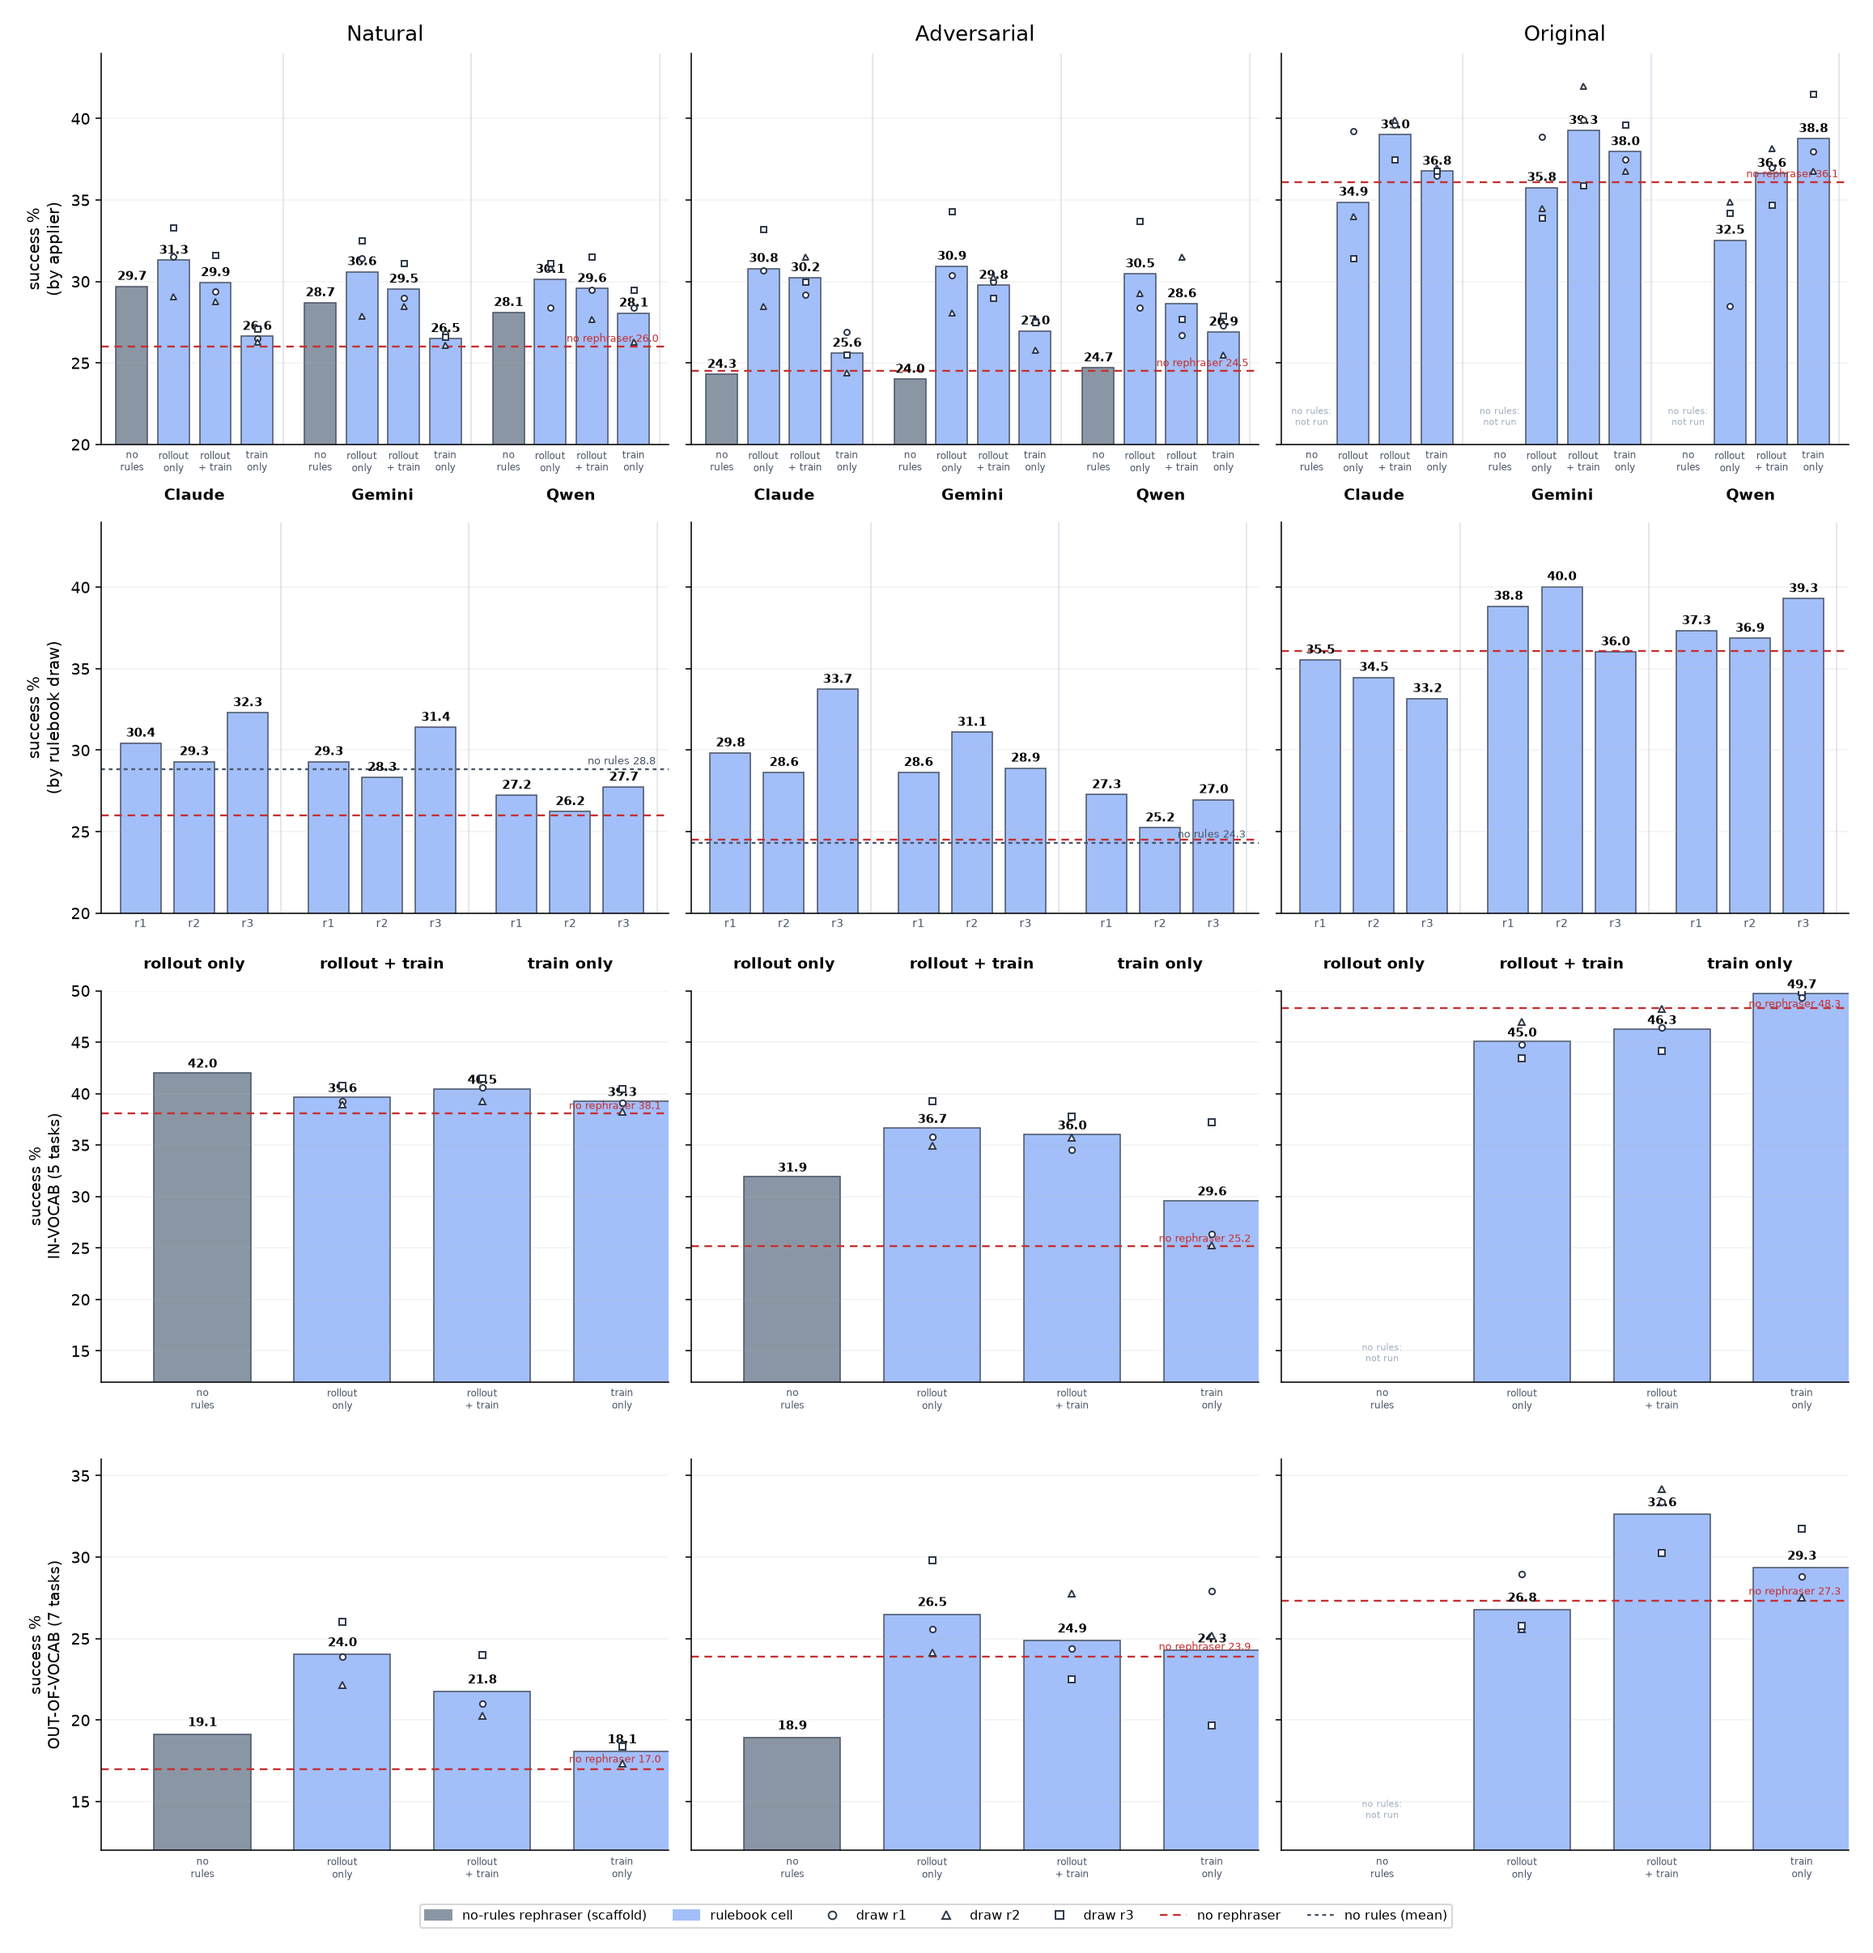
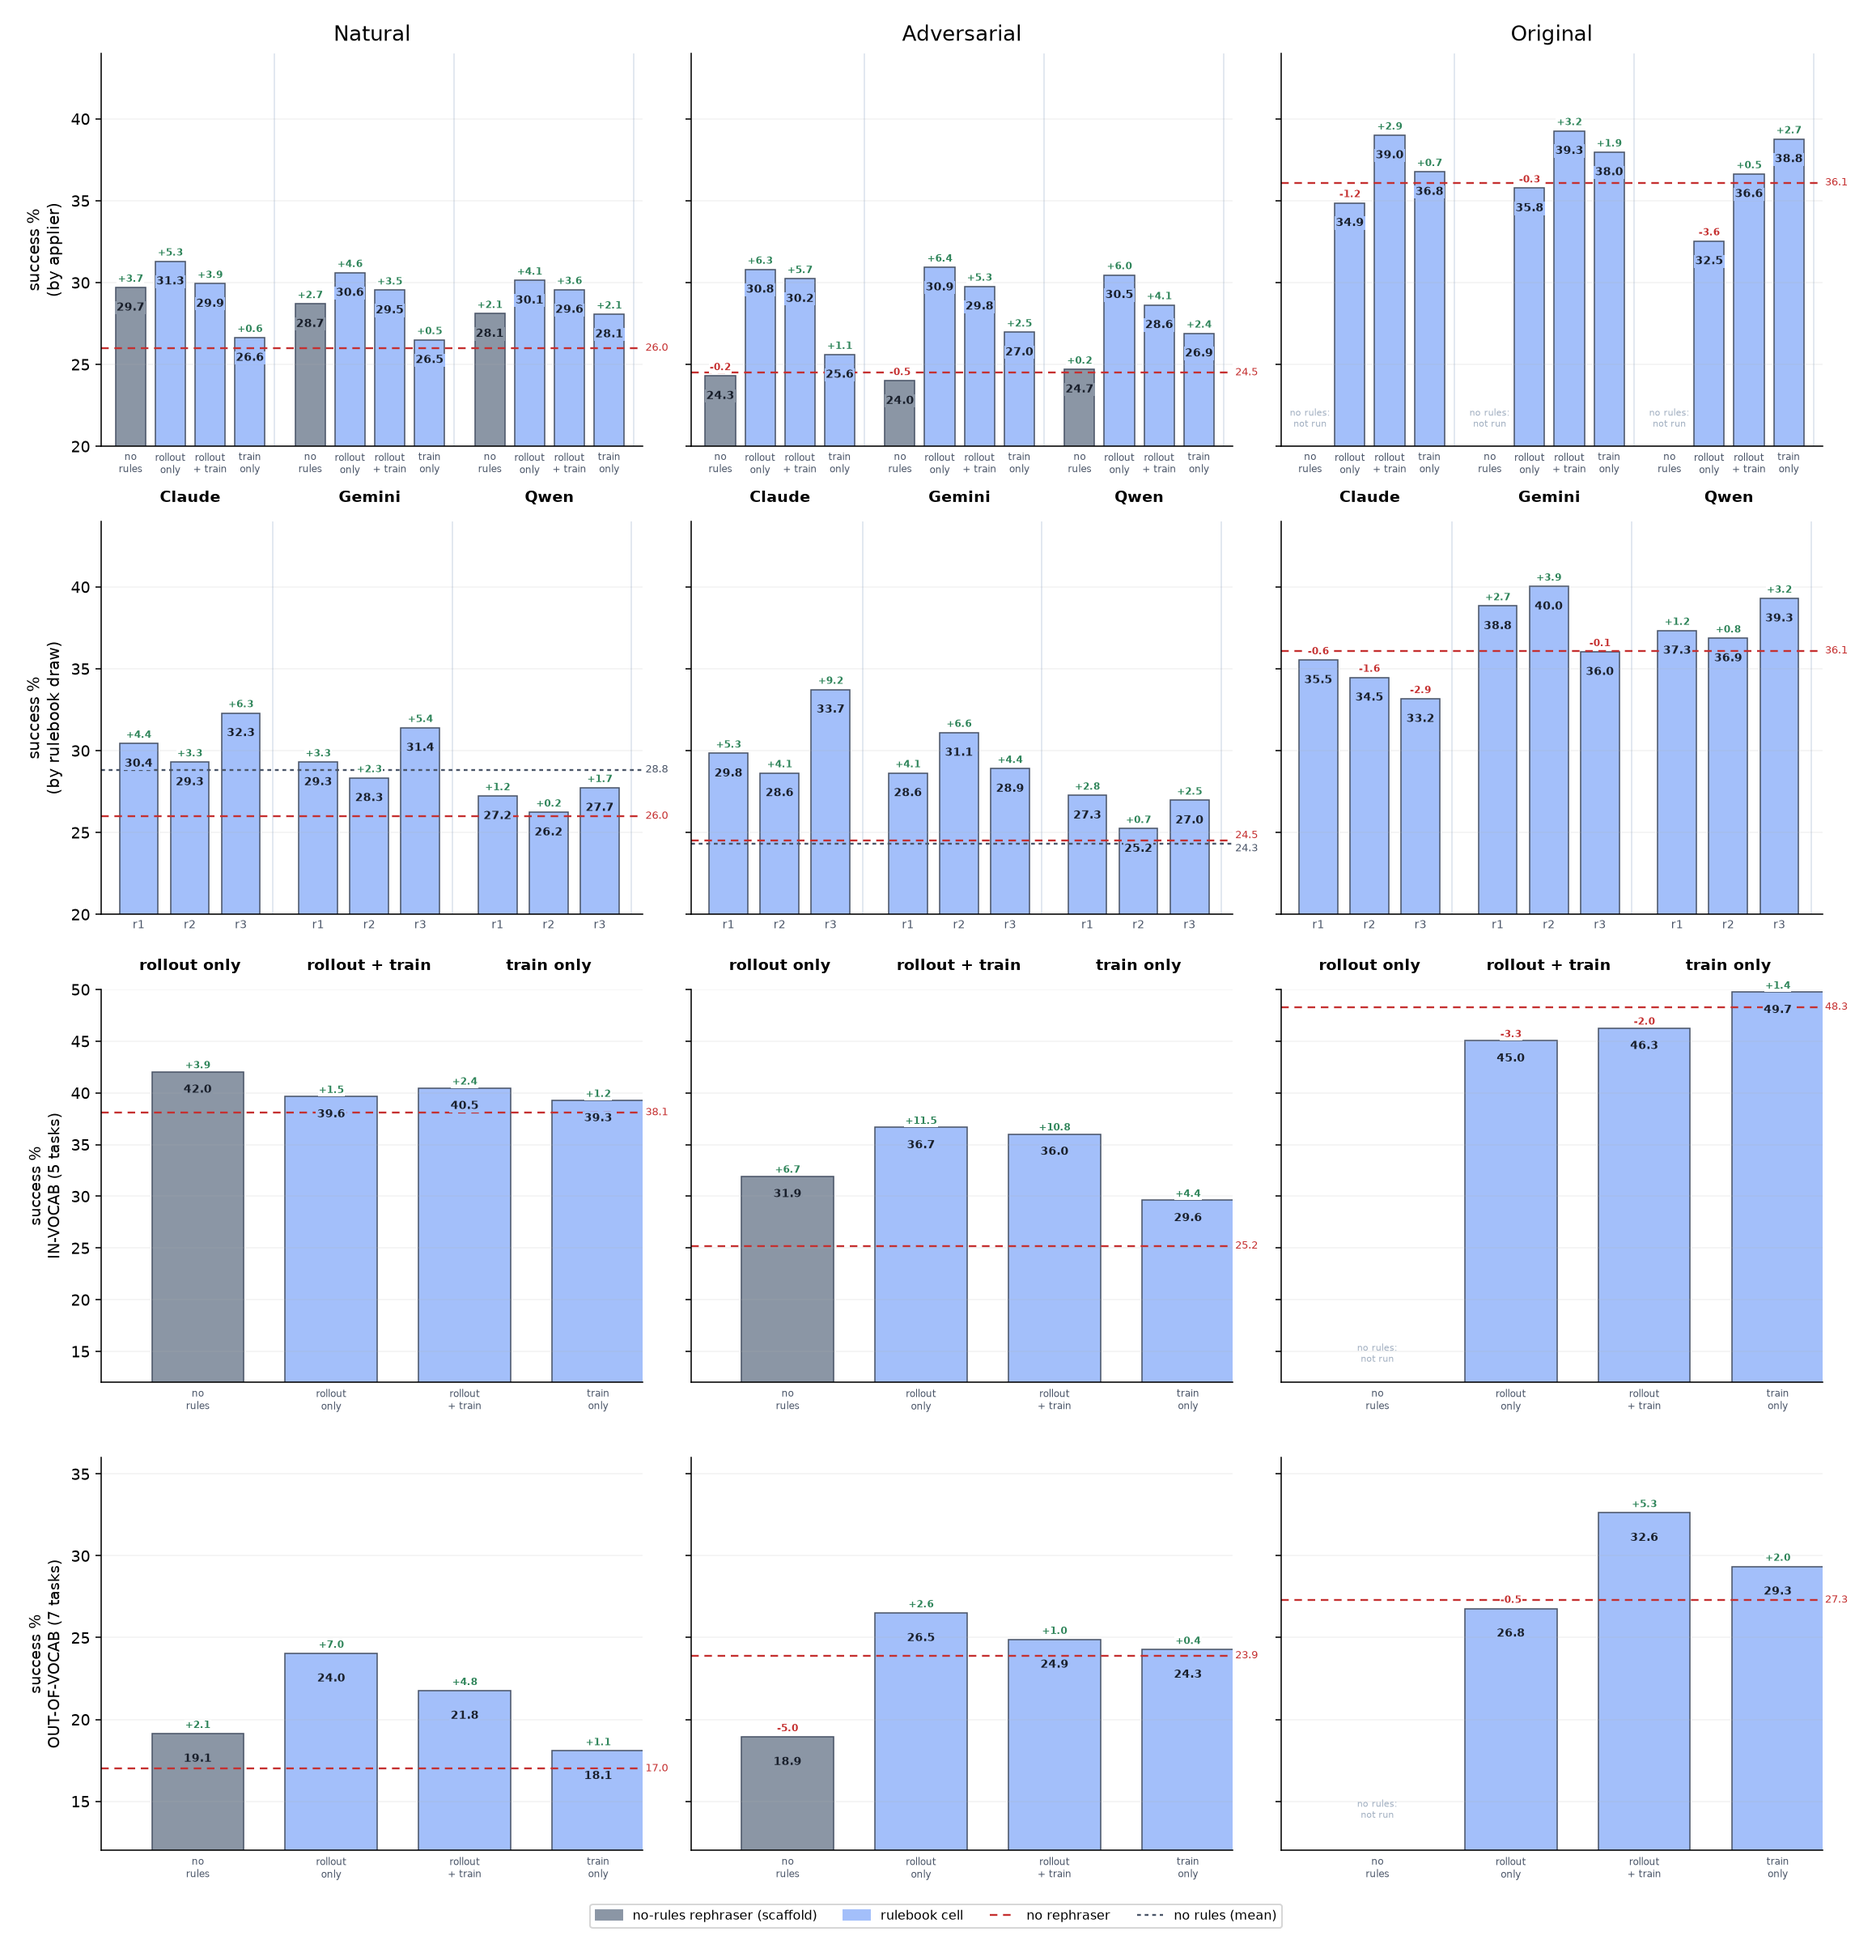
dashboard: dots -> in-bar values + signed deltas vs no-rephraser; baseline labels moved outside panels

diff --git a/scripts/make_rules_dashboard.py b/scripts/make_rules_dashboard.py
@@ -66,6 +66,19 @@ def scaffold(cond, ap=None, st="pooled"):
     return sum(vals) / len(vals) if vals else None
 
 
+def bar_annot(ax, x, v, base, dy=0.9, fc=None):
+    """Value inside the bar top; signed delta vs the no-rephraser base above.
+    Solid text boxes (bar-colored inside, white above) keep the dashed
+    baseline from striking through the numbers."""
+    ax.text(x, v - dy, f"{v:.1f}", ha="center", va="top", fontsize=7.0,
+            fontweight="bold", color="#1a202c", zorder=6,
+            bbox=dict(boxstyle="square,pad=0.10", fc=fc or C_RULES, ec="none"))
+    d = v - base
+    ax.text(x, v + 0.35, f"{d:+.1f}", ha="center", fontsize=6.2,
+            fontweight="bold", color="#2f855a" if d >= 0 else "#c53030", zorder=6,
+            bbox=dict(boxstyle="square,pad=0.10", fc="white", ec="none"))
+
+
 fig, axes = plt.subplots(4, 3, figsize=(16.4, 17.0), sharey="row")
 
 # ---------- Row 1: slice by applier ----------
@@ -77,7 +90,7 @@ for ax, (cond, cname) in zip(axes[0], CONDS):
         sc = scaffold(cond, ap)
         if sc is not None:
             ax.bar(x, sc, 0.62, color=C_BASE, edgecolor="#4a5568", lw=0.8)
-            ax.text(x, sc + 0.4, f"{sc:.1f}", ha="center", fontsize=7.6, fontweight="bold")
+            bar_annot(ax, x, sc, NO_REPH[cond], fc=C_BASE)
         else:
             ax.text(x, 21.2, "no rules:\nnot run", ha="center", fontsize=5.8, color="#a0aec0")
         ticks.append(x); tlabels.append("no\nrules"); gxs.append(x); x += 0.82
@@ -85,16 +98,14 @@ for ax, (cond, cname) in zip(axes[0], CONDS):
             dv = draws(cond, diet, ap)
             m = sum(dv.values()) / len(dv)
             ax.bar(x, m, 0.62, color=C_RULES, edgecolor="#4a5568", lw=0.8)
-            ax.text(x, m + 0.4, f"{m:.1f}", ha="center", fontsize=7.6, fontweight="bold")
-            for lb, v in dv.items():
-                ax.plot([x], [v], DMARK[lb], ms=3.6, color=INK, mfc="white", mew=1.0, zorder=5)
+            bar_annot(ax, x, m, NO_REPH[cond])
             ticks.append(x); tlabels.append(dlabel); gxs.append(x); x += 0.82
         gticks.append(sum(gxs) / len(gxs))
         ax.axvline(x - 0.31, color="#e2e8f0", lw=1.0, zorder=0)
         x += 0.42
     ax.axhline(NO_REPH[cond], color="#c53030", lw=1.2, ls=(0, (4, 3)), zorder=1)
-    ax.text(x - 0.75, NO_REPH[cond] + 0.3, f"no rephraser {NO_REPH[cond]:.1f}",
-            fontsize=6.6, color="#c53030", ha="right")
+    ax.text(1.005, NO_REPH[cond], f"{NO_REPH[cond]:.1f}", fontsize=6.6,
+            color="#c53030", ha="left", va="center", transform=ax.get_yaxis_transform())
     ax.set_xticks(ticks); ax.set_xticklabels(tlabels, fontsize=6.0, color="#4a5568")
     for gx, ap in zip(gticks, ["Claude", "Gemini", "Qwen"]):
         ax.text(gx, 16.6, ap, ha="center", fontsize=10, fontweight="bold", clip_on=False)
@@ -123,9 +134,9 @@ for ax, (cond, cname) in zip(axes[1], CONDS):
             else:
                 m = sum(vals) / len(vals)
                 ax.bar(x, m, 0.62, color=C_RULES, edgecolor="#4a5568", lw=0.8)
-                ax.text(x, m + 0.4, f"{m:.1f}", ha="center", fontsize=7.6, fontweight="bold")
+                bar_annot(ax, x, m, NO_REPH[cond])
                 if len(vals) < 3:
-                    ax.text(x, m - 1.6, f"n={len(vals)}", ha="center", fontsize=5.6,
+                    ax.text(x, m - 2.6, f"n={len(vals)}", ha="center", fontsize=5.6,
                             color="#744210")
             ticks.append(x); tlabels.append(dr); gxs.append(x); x += 0.82
         gticks.append(sum(gxs) / len(gxs))
@@ -134,9 +145,18 @@ for ax, (cond, cname) in zip(axes[1], CONDS):
     sc = scaffold(cond)
     if sc is not None:
         ax.axhline(sc, color="#4a5568", lw=1.2, ls=(0, (2, 2)), zorder=1)
-        ax.text(x - 0.75, sc + 0.3, f"no rules {sc:.1f}", fontsize=6.6,
-                color="#4a5568", ha="right")
+        crowd = abs(sc - NO_REPH[cond]) < 1.2   # stacked labels: nudge apart
+        ax.text(1.005, sc, f"{sc:.1f}", fontsize=6.6, color="#4a5568", ha="left",
+                va="bottom" if (crowd and sc >= NO_REPH[cond]) else
+                   ("top" if crowd else "center"),
+                transform=ax.get_yaxis_transform())
     ax.axhline(NO_REPH[cond], color="#c53030", lw=1.2, ls=(0, (4, 3)), zorder=1)
+    crowd = sc is not None and abs(sc - NO_REPH[cond]) < 1.2
+    ax.text(1.005, NO_REPH[cond], f"{NO_REPH[cond]:.1f}", fontsize=6.6,
+            color="#c53030", ha="left",
+            va="top" if (crowd and sc >= NO_REPH[cond]) else
+               ("bottom" if crowd else "center"),
+            transform=ax.get_yaxis_transform())
     ax.set_xticks(ticks); ax.set_xticklabels(tlabels, fontsize=7.0, color="#4a5568")
     for gx, (diet, dlabel) in zip(gticks, DIETS):
         ax.text(gx, 16.6, dlabel.replace("\n", " "), ha="center", fontsize=10,
@@ -157,7 +177,7 @@ for row, st, stname, ylim in [(2, "iv", "IN-VOCAB (5 tasks)", (12, 50)),
         sc = scaffold(cond, st=st)
         if sc is not None:
             ax.bar(x, sc, 0.62, color=C_BASE, edgecolor="#4a5568", lw=0.8)
-            ax.text(x, sc + 0.5, f"{sc:.1f}", ha="center", fontsize=7.6, fontweight="bold")
+            bar_annot(ax, x, sc, NOREPH_ST[cond][st], dy=1.2, fc=C_BASE)
         else:
             ax.text(x, ylim[0] + 2.0, "no rules:\nnot run", ha="center",
                     fontsize=5.8, color="#a0aec0")
@@ -167,14 +187,12 @@ for row, st, stname, ylim in [(2, "iv", "IN-VOCAB (5 tasks)", (12, 50)),
             dvals = {k: v for k, v in dvals.items() if v is not None}
             m = sum(dvals.values()) / len(dvals)
             ax.bar(x, m, 0.62, color=C_RULES, edgecolor="#4a5568", lw=0.8)
-            ax.text(x, m + 0.5, f"{m:.1f}", ha="center", fontsize=7.6, fontweight="bold")
-            for lb, v in dvals.items():
-                ax.plot([x], [v], DMARK[lb], ms=3.8, color=INK, mfc="white", mew=1.0, zorder=5)
+            bar_annot(ax, x, m, NOREPH_ST[cond][st], dy=1.2)
             ticks.append(x); tlabels.append(dlabel); x += 0.9
         nb = NOREPH_ST[cond][st]
         ax.axhline(nb, color="#c53030", lw=1.2, ls=(0, (4, 3)), zorder=1)
-        ax.text(x - 0.65, min(nb + 0.4, ylim[1] - 1.6), f"no rephraser {nb:.1f}",
-                fontsize=6.6, color="#c53030", ha="right")
+        ax.text(1.005, nb, f"{nb:.1f}", fontsize=6.6, color="#c53030",
+                ha="left", va="center", transform=ax.get_yaxis_transform())
         ax.set_xticks(ticks); ax.set_xticklabels(tlabels, fontsize=6.4, color="#4a5568")
         ax.tick_params(axis="x", length=0)
         ax.set_xlim(-0.65, x - 0.6)
@@ -185,20 +203,17 @@ for row, st, stname, ylim in [(2, "iv", "IN-VOCAB (5 tasks)", (12, 50)),
 
 handles = [plt.Rectangle((0, 0), 1, 1, color=C_BASE),
            plt.Rectangle((0, 0), 1, 1, color=C_RULES),
-           plt.Line2D([0], [0], marker="o", color=INK, mfc="white", ls="", ms=5),
-           plt.Line2D([0], [0], marker="^", color=INK, mfc="white", ls="", ms=5),
-           plt.Line2D([0], [0], marker="s", color=INK, mfc="white", ls="", ms=5),
            plt.Line2D([0], [0], color="#c53030", lw=1.2, ls=(0, (4, 3))),
            plt.Line2D([0], [0], color="#4a5568", lw=1.2, ls=(0, (2, 2)))]
 fig.legend(handles, ["no-rules rephraser (scaffold)", "rulebook cell",
-                     "draw r1", "draw r2", "draw r3", "no rephraser",
-                     "no rules (mean)"],
-           fontsize=8.4, ncol=7, loc="lower center", bbox_to_anchor=(0.5, 0.0))
+                     "no rephraser", "no rules (mean)"],
+           fontsize=8.4, ncol=4, loc="lower center", bbox_to_anchor=(0.5, 0.0))
 PAPER = os.environ.get("PAPER") == "1"   # paper variant: no title/footer, the
 if not PAPER:                            # LaTeX caption carries that text
     fig.suptitle("Rulebook evaluation dashboard — base-weighted, sealed 12 tasks\n"
-                 "rows: by applier (dots = draws) · by rulebook draw (mean over appliers) · "
-                 "in-vocab stratum · out-of-vocab stratum",
+                 "rows: by applier · by rulebook draw (mean over appliers) · "
+                 "in-vocab stratum · out-of-vocab stratum · "
+                 "green/red = delta vs no rephraser",
                  fontsize=12.5, y=0.995)
     fig.text(0.99, 0.002,
              "natural = 186-phrase image set ×1 rep · adversarial = 72 attacks ×2 · original = 12 canonicals ×2 · "

diff --git a/paper/main.tex b/paper/main.tex
@@ -156,15 +156,16 @@ repository.\footnote{\url{https://github.com/sttawm/phrase-rl/tree/main/paper/ru
     \includegraphics[width=\textwidth]{figures/rules_dashboard.png}
     \caption{Evaluating rulebooks across models. Base-weighted success on
     the 12 sealed tasks, by condition (columns: natural, adversarial,
-    original). Rows: by applier (dots = individual rulebook draws); by
-    rulebook draw (bars = mean over appliers); the in-vocab stratum (5
-    tasks); the out-of-vocab stratum (7 tasks). Dashed red line = the
-    un-rephrased baseline; dashed grey line = the no-rules rephraser
-    scaffold; grey bars = scaffold, blue bars = rulebook cells. Natural =
-    the 186-phrase image-conditioned set ($\times$1 rep); adversarial = 72
+    original). Rows: by applier (bars = mean over three independent
+    rulebook draws); by rulebook draw (bars = mean over appliers); the
+    in-vocab stratum (5 tasks); the out-of-vocab stratum (7 tasks). The
+    number inside each bar is absolute success; the signed number above it
+    is the change vs.\ the un-rephrased baseline (dashed red line; dashed
+    grey line = the no-rules scaffold mean). Grey bars = the no-rules
+    rephraser scaffold, blue bars = rulebook cells. Natural = the
+    186-phrase image-conditioned set ($\times$1 rep); adversarial = 72
     attacks ($\times$2); original = 12 canonical instructions ($\times$2);
-    three independent rulebook draws per diet; strata from the ex-ante
-    vocabulary audit.}
+    strata from the ex-ante vocabulary audit.}
     \label{fig:dashboard}
 \end{figure*}
 
